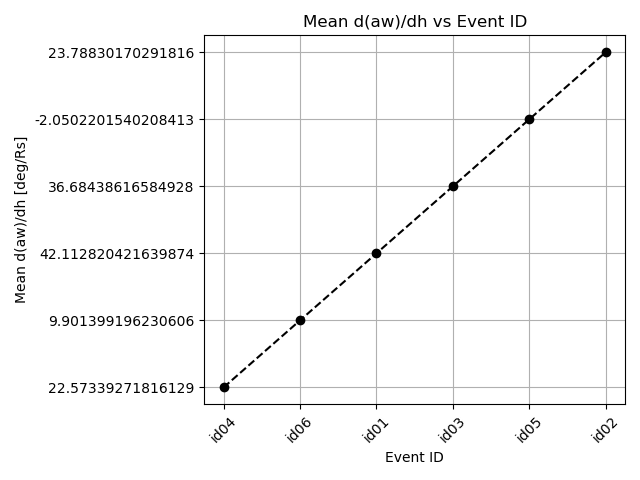
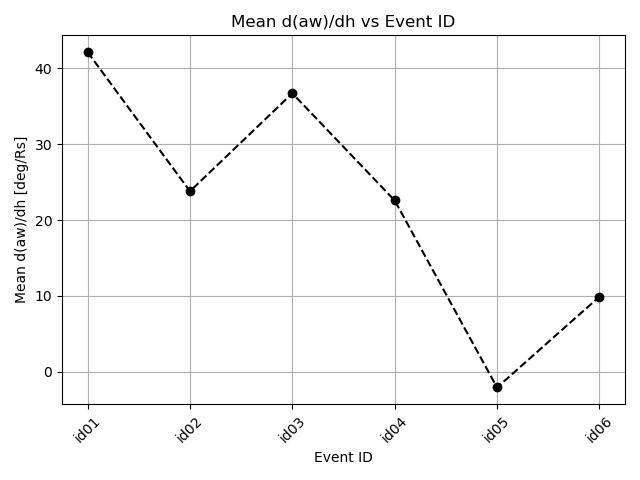
bug in overall plots

diff --git a/analyze_points.py b/analyze_points.py
@@ -16,7 +16,7 @@ solar_rad_in_m = 6.957e8 # solar radius in meters
 #####
 # finds al csv files in points_list_path
 points_lists = [f for f in os.listdir(points_list_path) if f.endswith('.csv')]
-points_lists = [os.path.join(points_list_path, f) for f in points_lists]
+points_lists = sorted([os.path.join(points_list_path, f) for f in points_lists])
 # variables to plot together for all csv files
 all_mean_dawdh = []  
 all_mean_spped = []
@@ -134,7 +134,7 @@ for points_list in points_lists:
 # plot all mean dawdh vs event_id
 fig = plt.figure()
 all_mean_dawdh = np.array(all_mean_dawdh)
-plt.plot(all_mean_dawdh[:,0], all_mean_dawdh[:,1],'o--k')
+plt.plot(all_mean_dawdh[:,0], all_mean_dawdh[:,1].astype(float),'o--k')
 plt.xticks(rotation=45)
 plt.ylabel('Mean d(aw)/dh [deg/Rs]')
 plt.xlabel('Event ID')
@@ -147,7 +147,7 @@ plt.close()
 # plot all mean speed vs event_id
 fig = plt.figure()
 all_mean_spped = np.array(all_mean_spped)   
-plt.plot(all_mean_spped[:,0], all_mean_spped[:,1],'o--k')
+plt.plot(all_mean_spped[:,0], all_mean_spped[:,1].astype(float),'o--k')
 plt.xticks(rotation=45)
 plt.ylabel('Mean Speed [km/s]')
 plt.xlabel('Event ID')
